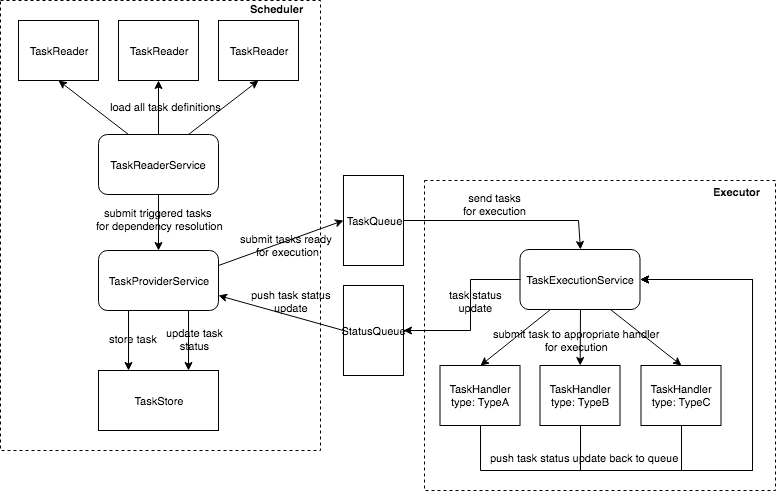
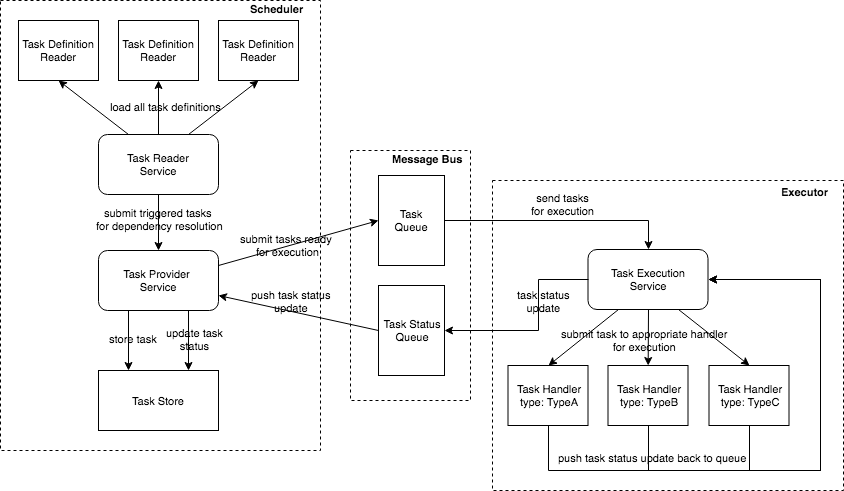
updated reade and added sample configuration

diff --git a/README.md b/README.md
@@ -1,228 +1,14 @@
-Increasing need for insights from vast data sources have given rise to data driven business intelligence products. These products build and execute complex data workflows.
+# Kronos
 
-A data workflow is a set of inter-dependant data driven tasks. Simple solutions use CRON approach which is straightforward and works well for simple workflows that have few or no task dependencies. However, CRON fails miserably if there are complex dependancies between tasks.
+Kronos is a java based replacement for cron to build, run and monitor complex data pipelines with flexible deployment options. Please view the wiki for usage, information, getting started etc https://github.com/cognitree/kronos/wiki
 
-At Cognitree, we develop large data workflows for our customers to gather data insights. We built an effective scheduling tool for our data pipelines which is flexible and dynamic to solve the changing business requirements.
+# Contribute
 
-# Scheduler Framework
+- Source Code: https://github.com/cognitree/kronos
+- Issue Tracker: https://github.com/cognitree/kronos/issues
 
-Our Scheduler Framework fits in as a CRON replacement to build, run and monitor complex data pipelines with flexible deployment options. It handles dependency resolution, workflow management, failures. The framework is built on top of [Quartz](http://www.quartz-scheduler.org) and uses DAG (Directed Acyclic Graph) to manage the tasks.
+Please forward your comments and feature requests to oss@cognitree.com
 
-Examples of data pipelines include batch jobs, chaining multiple tasks, machine learning job etc
+# License
 
-Scheduler Framework can be compared with [Oozie](http://oozie.apache.org/) and [Azkaban](https://azkaban.github.io/).
-
-The major difference is they are built specifically for Hadoop workflows whereas Scheduler Framework can run anything including big data workflows through its extensible architecture.
-Each component of the Scheduler Framework is pluggable allowing the developer to pick from our extensions or write custom extensions.
-
-### Why use Scheduler Framework
-
-* **Dynamic**: Define/ modify workflow and their dependency at runtime.
-* **Extensible**: Define custom source of tasks, task handlers and the persistence store.
-* **Policy Driven**: Define custom policies to take necessary action on task timeout.
-* **Fault Tolerant**: Comes with inbuilt fault tolerance mechanism to handle system/ process faults.
-* **Flexible**: Multiple deployment options. Can be embedded into existing code base or deployed as standalone or in distributed mode.
-
-## Architecture
-
-At its core, Scheduler Framework leverages Quartz to enable scheduling of dependent tasks.
-
-At a high level Scheduler Framework consists of three components as depicted in the diagram below.
-
-* **Scheduler**: A key component of the framework responsible for reading all the task definitions from the source, resolving task dependencies and scheduling tasks for execution.
-* **Executor**: Responsible for executing the tasks scheduled by scheduler and reporting back the task execution status.
-* **Message Bus**: Scheduler and Executor do not communicate directly, instead they use a intermediary buffer (queue) to send messages to each other. The enables users to decouple Scheduler and Executor from each other and run them separately as long as the queue is distributed.
-
-![](images/architecture.png)
-
-
-## Getting started with Scheduler Framework
-
-This tutorial will walk you through some of fundamental concepts of Scheduler Framework while building a sample workflow. For those who want to skip the concepts and get started directly by running the sample workflow can move directly [here](#running-the-sample-workflow)
-
-The Sample workflow runs three inter-dependant tasks on a recurring interval.
-
-Scheduler framework read its configuration from `app.yaml`. The following sections define various parts of this configuration file.
-
-#### Defining TaskDefinitions
-
-The source of tasks definition is pluggable and developer can provide a custom source of task which can read from DB, File, URL etc.
-
-In this example we define task definitions in a task-definitions.yaml file in `YAML` format.
-
-```
-- name: taskOne
-  type: fileLogger
-  schedule: 0 0/1 * 1/1 * ? *
-- name: taskTwo
-  type: consoleLogger
-  schedule: 0 0/1 * 1/1 * ? *
-- name: taskThree
-  type: shellCommand
-  schedule: 0 0/5 * 1/1 * ? *
-  properties:
-    workingDir: /tmp/
-    cmd: date
-    logDir: /tmp/
-  dependsOn:
-    - name: taskTwo
-      duration: 5m
-      mode: all
-    - name: taskOne
-      duration: 5m
-      mode: all
-```
-
-Here, `taskOne` is of type `fileLogger` which writes the tasks it receives into a file in tmp directory under a file namely `tasks.txt`, `taskTwo` is of `consoleLogger` which logs the tasks into console and `taskThree` is of type `shellCommand` which executes the shell command defined in task properties. `taskThree` depends on `taskOne` and `taskTwo`.
-
-According to schedule definition above, `taskOne` and `taskTwo` they will run every 1 min and `taskThree` will run every 5 min and is dependent on `taskOne` and `taskTwo`.
-
-While defining dependency, one also has to specify the `mode` and `duration` defining the logical boundary to fetch tasks to satisfy the dependency between them.
-
-For example, In case of `taskThree` `duration` is 5m and mode is `all` for `taskOne` and `taskTwo` which implies the scheduler that `taskThree` depends on the task execution status of all the `taskOne` and `taskTwo` that ran in the last 5 min.
-
-Other possible values of mode are `first`, `last`, `all`. Where `first` means the first instance in the specified duration, `last` means the last instance in the specified duration and `all` means all the instance in the specified duration. Duration can be defined as 5`m/h/s`, where `m` stand for minutes, `h` for hour and `s` for seconds. If none is passed it is assumed to be in milliseconds.
-
-#### Configuring TaskDefinitionReader
-
-Implement [TaskDefinitionReader](scheduler/src/main/java/com/cognitree/tasks/scheduler/readers/TaskDefinitionReader.java) to read the task definitions.
-
-A sample implementation to read tasks definitions from a yaml file is available here as [FileTaskDefinitionReader](examples/src/main/java/com/cognitree/examples/tasks/scheduler/readers/FileTaskDefinitionReader.java)
-
-Configure the `FileTaskDefinitionReader` with the framework as one of the reader under `readerConfig` section
-
-**app.yaml**
-```
-readerConfig:
-  filereader:
-    readerClass: com.cognitree.examples.tasks.scheduler.readers.FileTaskDefinitionReader
-    config:
-      source: /Users/ankitnanglia/workspace/cognitree/scheduler/examples/src/main/resources/task-definitions.yaml
-    schedule: 0 0/1 * 1/1 * ? *
-```
-
-The framework monitors `task-definitions.yaml` file regularly for changes. In this case, every 1 min configured as the `schedule` for `fileReader`. Any changes made to the tasks defined in `task-definitions.yaml` file will reflect in the next scheduled run of that task.
-
-The task definition reader configuration is complete, next is to configure handler to execute these tasks
-
-#### Configuring TaskHandler
-
-In `task-definitions.yaml` we have defined three types of tasks `fileLogger`, `consoleLogger` and `shellCommand`.
-
-Configure framework to handle these tasks in `app.yaml`.
-
-`app.yaml`
-```
-handlerConfig:
-  fileLogger:
-    handlerClass: com.cognitree.examples.tasks.executor.handlers.FileLogger
-    maxExecutionTime: 10m
-    timeoutPolicy: notifyOnTimeout
-    maxParallelTasks: 4
-  shellCommand:
-    handlerClass: com.cognitree.tasks.executor.handlers.ShellCommandHandler
-    maxExecutionTime: 10m
-    timeoutPolicy: notifyOnTimeout
-    maxParallelTasks: 4
-  default:
-    handlerClass: com.cognitree.examples.tasks.executor.handlers.ConsoleLogger
-    maxExecutionTime: 10m
-    maxParallelTasks: 16
-```
-
-
-In the above configuration,
-
-* [FileLogger](examples/src/main/java/com/cognitree/examples/tasks/executor/handlers/FileLogger.java) is configured to handle tasks of `fileLogger`.
-* [ShellCommandHandler](extensions/shell-handler/src/main/java/com/cognitree/tasks/executor/handlers/ShellCommandHandler.java) is configured to handle tasks of type `shellCommand`.
-* [ConsoleLogger](examples/src/main/java/com/cognitree/examples/tasks/executor/handlers/ConsoleLogger.java) is configured as the `default` handler.
-
-Note: `default` is a special keyword used while defining handlers. Any task type which is not configured explicitly will be handled by handler configured for `default` type
-
-Also for `fileLogger` and `shellCommand` type we have configured timeoutPolicy as `notifyOnTimeout` which is configured under `timeoutPolicyConfig` section of `app.yaml`. Update the missing configuration in `app.yaml` for `notifyOnTimeout` policy such as name, email, password etc.
-
-`app.yaml`
-```
-timeoutPolicyConfig:
-  notifyOnTimeout:
-    policyClass: com.cognitree.examples.tasks.scheduler.policies.NotifyOnTimeoutPolicy
-    config:
-      smtp.host: "smtp.gmail.com"
-      smtp.port: 587
-      sender.name:
-      sender.email:
-      sender.password:
-      email.subject: "Task Timeout Notification"
-      recipient.name:
-      recipient.email:
-```
-
-Here `notifyOnTimeout` is the id used by the handler while defining timeout policy it should apply in case of timeout. The implementation of NotifyOnTimeoutPolicy can be found [here](examples/src/main/java/com/cognitree/examples/tasks/scheduler/policies/NotifyOnTimeoutPolicy.java).
-
-The task handler configuration is complete, next is to configure Message Bus to be used by scheduler and executor.
-
-#### Configuring Message Bus
-
-As discussed in the architecture section scheduler and executor do not communicate directly, instead they use a intermediary queue to send and receive messages.
-
-Configure in-memory queue which keeps the tasks and task status in memory with the framework in the `app.yaml`.
-
-`app.yaml`
-```
-taskProducerConfig:
-  producerClass: com.cognitree.tasks.queue.producer.InMemoryTaskProducer
-taskConsumerConfig:
-  consumerClass: com.cognitree.tasks.queue.consumer.InMemoryTaskConsumer
-  config:
-    pollInterval: 10s # time interval to poll tasks from task queue for execution
-
-taskStatusProducerConfig:
-  producerClass: com.cognitree.tasks.queue.producer.InMemoryStatusProducer
-taskStatusConsumerConfig:
-  consumerClass: com.cognitree.tasks.queue.consumer.InMemoryStatusConsumer
-  config:
-    pollInterval: 10s # time interval to poll tasks status from status queue
-```
-
-#### Configuring task purge interval
-
-Periodically, tasks older than the specified interval and status in one of the final state (SUCCESSFUL/FAILED) are purged from memory to prevent the system from going OOM. The implication of configuring this value is explained in detail [here](scheduler/src/main/java/com/cognitree/tasks/ApplicationConfig.java)
-
-`app.yaml`
-```
-taskPurgeInterval: 1d
-```
-
-Scheduler Framework is now configured with all the required parameters. At the end of this section the `app.yaml` file should look like the one used in the example [here](examples/src/main/resources/app.yaml).
-
-### Running the Sample Workflow
-
-#### Standalone Mode
-```
-$ clone the repository
-$ cd scheduler/examples
-$ update readerConfig section in app.yaml to point to the file containing task definition. Sample tasks file is available under examples/src/main/resources/task-definitions.yaml
-$ update timeoutPolicyConfig section in app.yaml with the email to use to send notifications in case a task times out
-$ mvn clean package
-$ java -jar target/examples-1.0-jar-with-dependencies.jar
-```
-
-#### Distributed Mode
-There is a [app-kafka.yaml](examples/src/main/resources/app-kafka.yaml) file which can be used to deploy scheduler and executor service in a distributed mode by using kafka as a Message Bus.
-
-```
-$ clone the repository
-$ cd scheduler/examples
-$ update readerConfig section in app-kafka.yaml to point to the file containing task definition. Sample tasks file is available under examples/src/main/resources/task-definitions.yaml
-$ update timeoutPolicyConfig section in app-kafka.yaml with the email to use to send notifications in case a task times out
-$ update bootstrap.servers property in taskProducerConfig/ taskConsumerConfig/ taskStatusProducerConfig/ taskStatusConsumerConfig section in app-kafka.yaml to point to the kafka server
-$ mvn clean package
-$ start kafka broker
-# Start scheduler
-$ java -DconfigFile=app-kafka.yaml -Dprofile=scheduler -jar target/examples-1.0-jar-with-dependencies.jar
-# Start executor
-$ java -DconfigFile=app-kafka.yaml -Dprofile=executor -jar target/examples-1.0-jar-with-dependencies.jar
-```
-
-The tasks configured in the `task-definitions.yaml` will be picked by scheduler and scheduled for execution once schedule of task is met and all of its dependent siblings have completed successfully.
-
+The project is licensed under the Apache 2 license.
